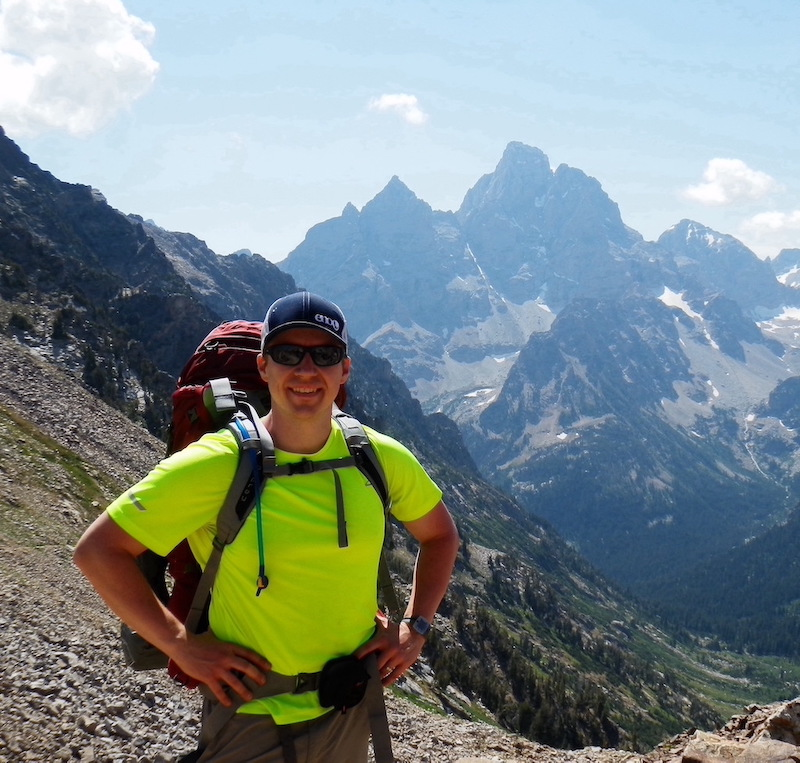
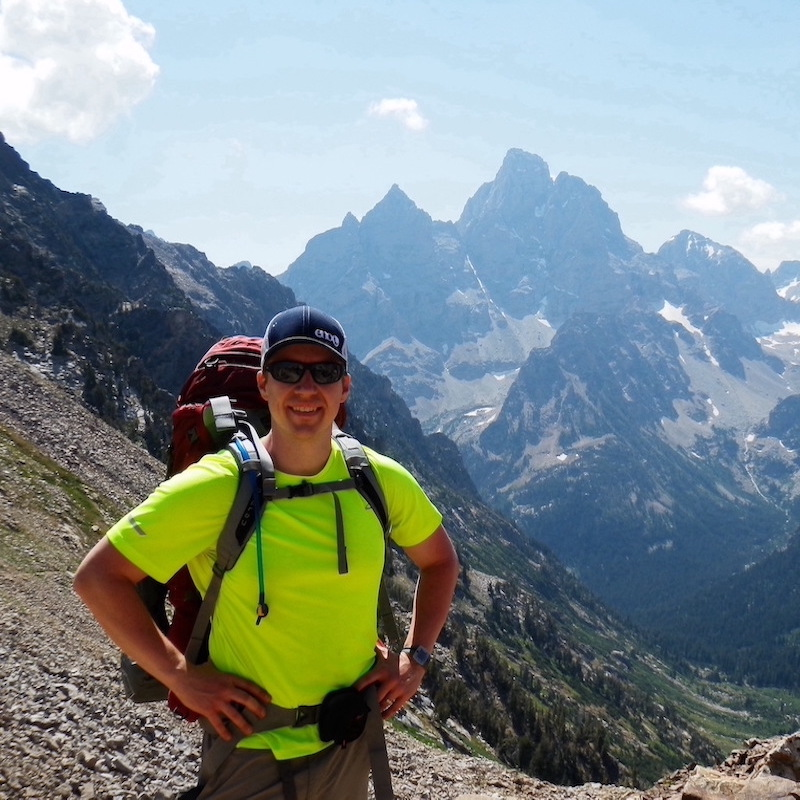
Added photo

Changed region(s): [[0.25, 0.422, 0.2812, 0.4522]]

diff --git a/README.md b/README.md
@@ -1,8 +1,9 @@
 ## Hello there, I'm Skyler! 👋 👋
 
-<!-- ![Me](P8060117.JPG) -->
 
 #### Software Developer in Python & Javascript 🐍 | Husband & Father 👶🏼 | Classical Musician 🎺 | Backpacking Enthusiast 🏔 | Aspiring Woodworker 🪵 | A love for building things ❤
+
+![Me](IMG_2552.jpeg)
 
 <hr />
 
